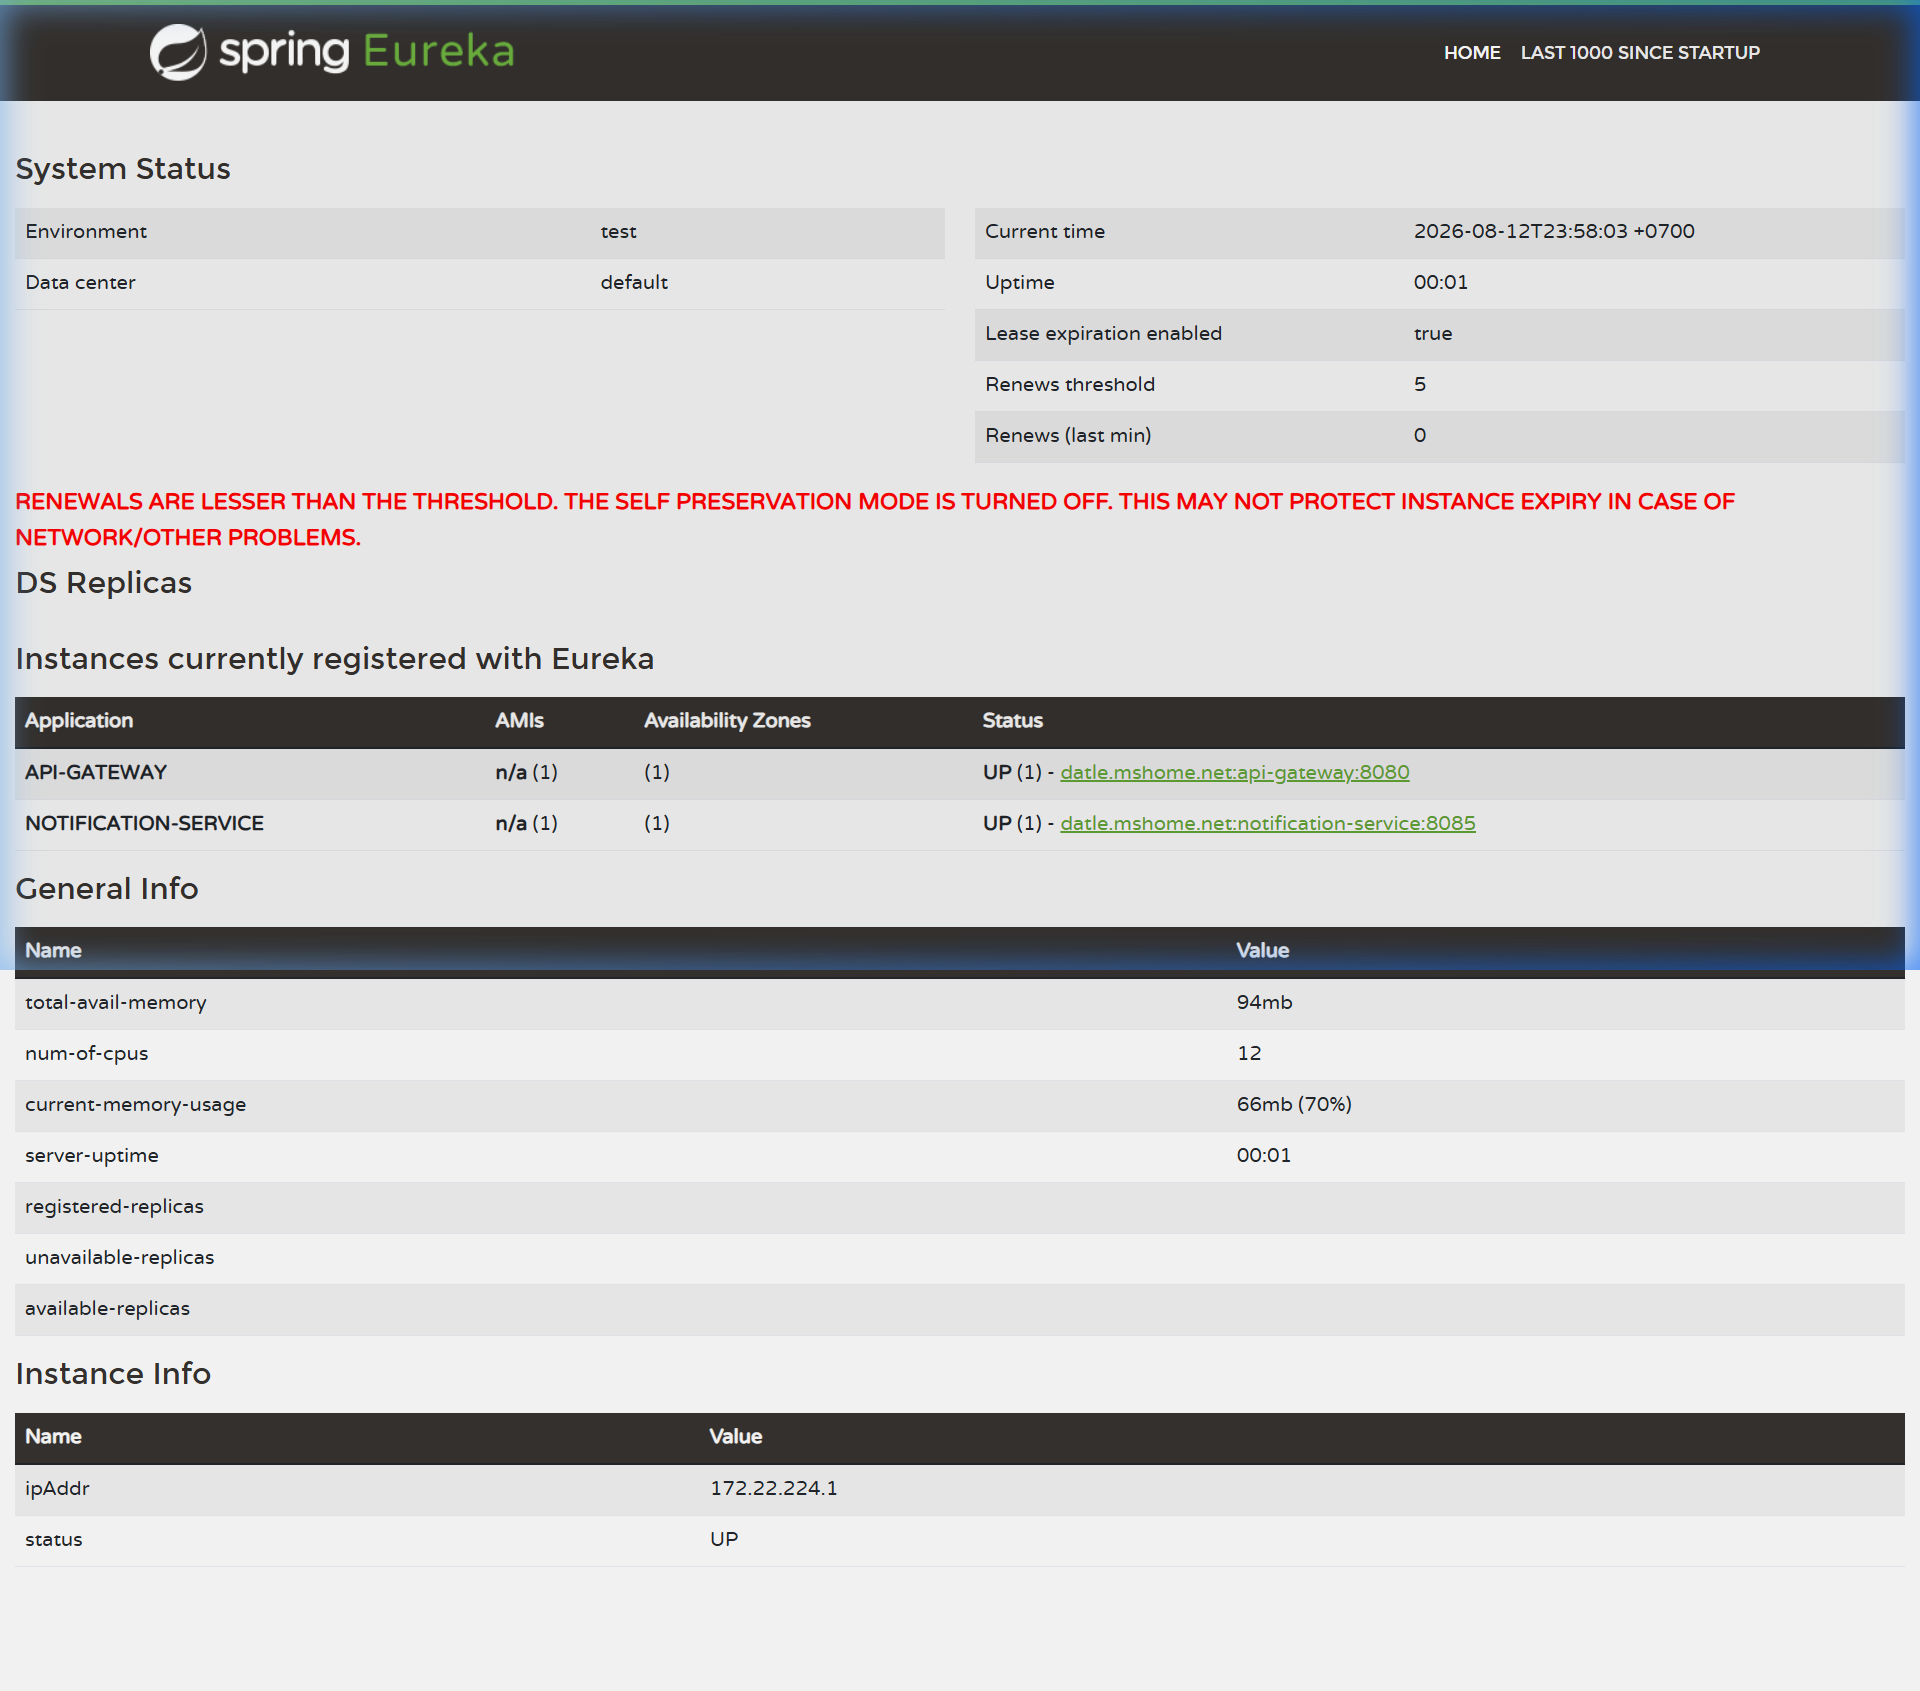
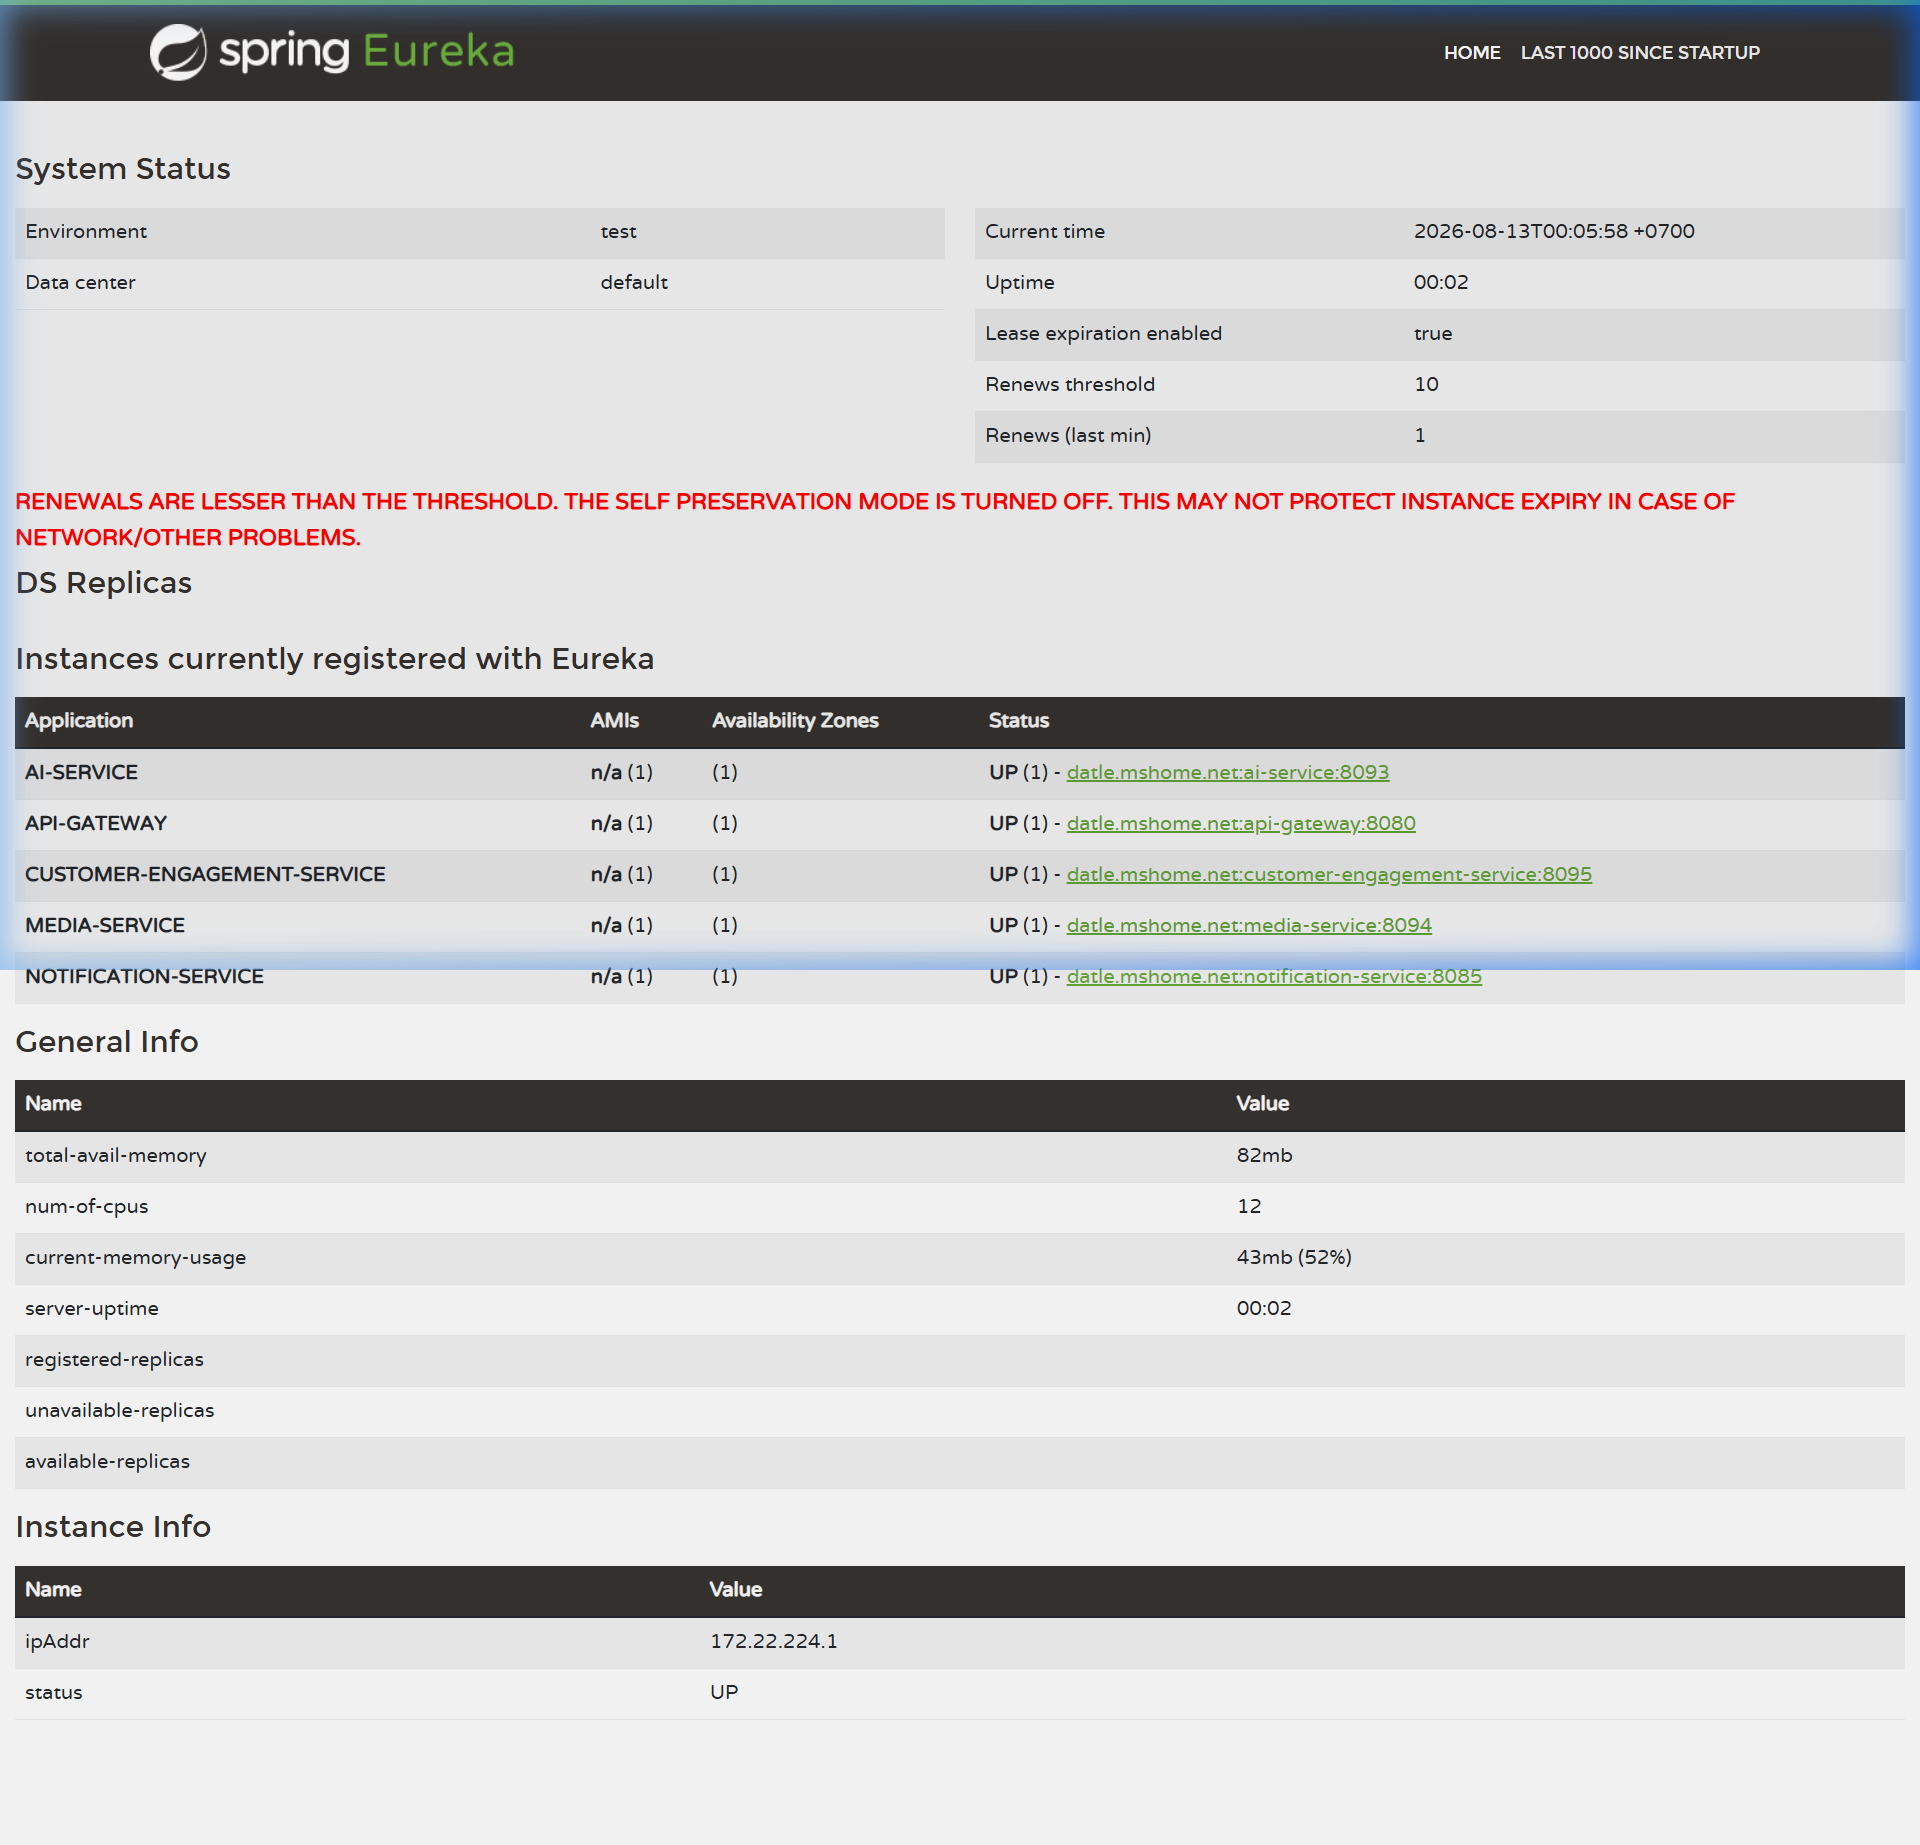
docs: update Eureka dashboard live screenshot with multiple registered instances (AI, Gateway, Media, Engagement, Notification)

diff --git a/README.vi.md b/README.vi.md
@@ -147,7 +147,7 @@ graph TD
 
 ## 📊 Trạng Thái Thực Tế Trên Eureka Service Discovery Dashboard
 
-Các microservices tự động phát hiện và đăng ký với máy chủ **Netflix Eureka Server** (`http://localhost:8761`). Dưới đây là ảnh chụp màn hình thực tế (Authentic Live Screenshot) từ giao diện Eureka Server đang chạy thời gian thực trên môi trường local:
+Các microservices tự động phát hiện và đăng ký với máy chủ **Netflix Eureka Server** (`http://localhost:8761`). Dưới đây là ảnh chụp màn hình thực tế (Authentic Live Screenshot) từ giao diện Eureka Server đang chạy thời gian thực trên môi trường local (hiển thị các microservices như `API-GATEWAY`, `AI-SERVICE`, `NOTIFICATION-SERVICE`, `MEDIA-SERVICE`, `CUSTOMER-ENGAGEMENT-SERVICE` đã kết nối và báo trạng thái `UP`):
 
 ![Spring Cloud Eureka Dashboard Live Screenshot](docs/assets/eureka-dashboard.png)
 

diff --git a/README.md b/README.md
@@ -147,7 +147,7 @@ graph TD
 
 ## 📊 Live Eureka Service Registry Showcase
 
-The microservices dynamically register with the **Netflix Eureka Server** (`http://localhost:8761`) upon startup. Below is an authentic live screenshot captured directly from the running Eureka Registry Server in local development:
+The microservices dynamically register with the **Netflix Eureka Server** (`http://localhost:8761`) upon startup. Below is an authentic live screenshot captured directly from the running Eureka Registry Server in local development environment (showing active microservices including `API-GATEWAY`, `AI-SERVICE`, `NOTIFICATION-SERVICE`, `MEDIA-SERVICE`, `CUSTOMER-ENGAGEMENT-SERVICE` registered UP):
 
 ![Spring Cloud Eureka Dashboard Live Screenshot](docs/assets/eureka-dashboard.png)
 
